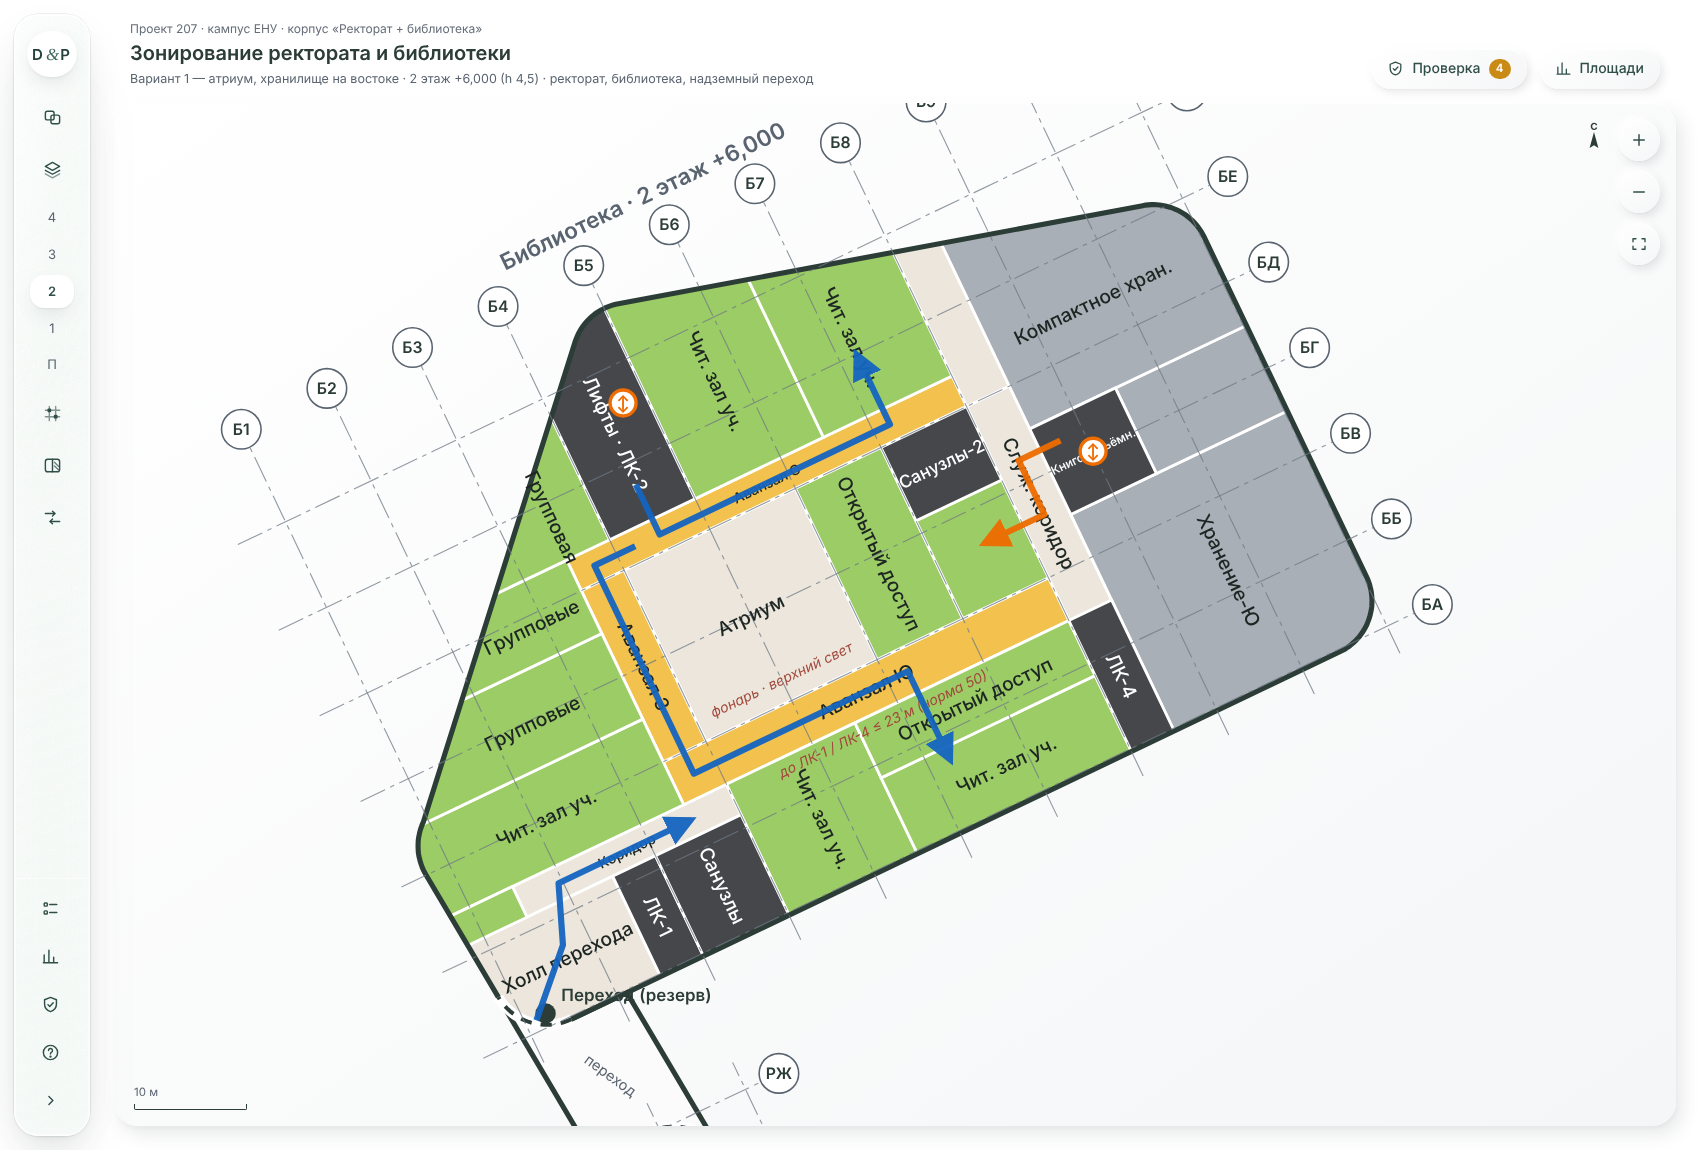
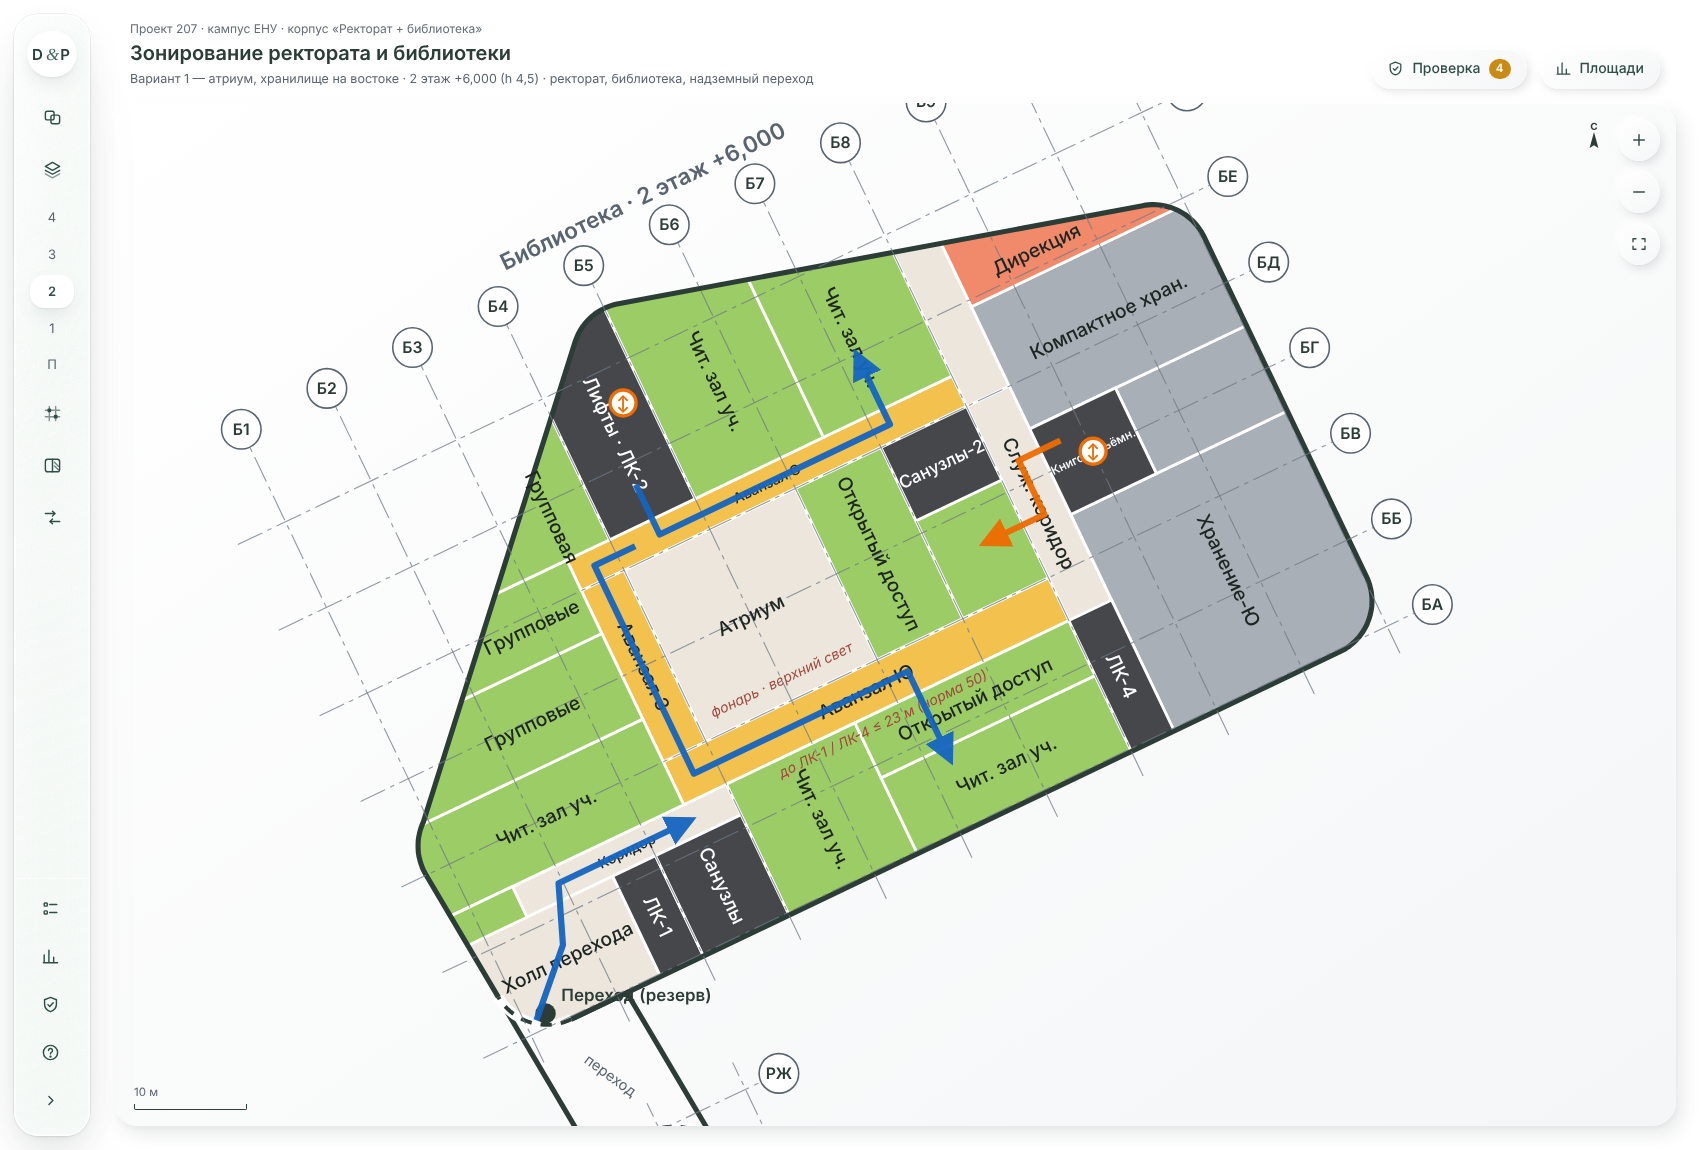
Библиотека: лишняя площадь компактного хранения (2 эт.) отдана дирекции и бухгалтерии
Claude-Session: https://claude.ai/code/session_01PBUMDRyqQNphWJTD6zJTqL

Changed region(s): [[0.5612, 0.1826, 0.6859, 0.3043]]

diff --git a/ADM_LIB_Zoning.html b/ADM_LIB_Zoning.html
@@ -531,8 +531,10 @@ for(const f of ["2","3"]){
 L("2",63,86,-1,21,"z7","storeS","Хранение-Ю","Основное книгохранилище, южный отсек",
   "Без окон — фонд без солнца; доступ только из служебного коридора; отсек ≈ 495 м² ≤ 600 м² (п. 4.2.1.69); выходы — служебный коридор и ЛК-4 (п. 5.3.1.29).",{p:"store",nl:true});
 L("2",71.4,86,21,29.4,"z7","storeC","","Компактное хранение (передвижные стеллажи), часть 2","Часть отсека компактного хранения.",{p:"store",nl:true});
-L("2",63,86,29.4,56,"z7","storeC","Компактное хран.","Компактное хранение (передвижные стеллажи), часть 2",
-  "Вторая часть компактного хранения (решение архитектора — на двух этажах); отсек ≈ 430 м² ≤ 600 м²; без окон.",{p:"store",nl:true});
+L("2",63,86,29.4,41.4,"z7","storeC","Компактное хран.","Компактное хранение (передвижные стеллажи), часть 2",
+  "Вторая часть компактного хранения (решение архитектора — на двух этажах); сокращено до нормы табл. 26 (450 м² полезной), северная часть отдана дирекции; без окон.",{p:"store",nl:true});
+L("2",63,86,41.4,56,"z5","admin","Дирекция","Дирекция и бухгалтерия библиотеки",
+  "На лишней площади компактного хранения (решение архитектора): администрация — производственная зона (п. 3.109), не выше 3 этажа; окна на С и ВСВ; вход из служебного коридора, без читательских зон.",{p:"serv"});
 for(const f of ["3"]){
   L(f,63,86,-1,21,"z7","storeS","Хранение-Ю","Основное книгохранилище, южный отсек","Без окон; доступ только из служебного коридора; отсек ≈ 495 м² ≤ 600 м²; выходы — служебный коридор и ЛК-4.",{p:"store",nl:true});
   L(f,71.4,86,21,29.4,"z7","storeN","","Основное книгохранилище, северный отсек","Часть северного отсека.",{p:"store",nl:true});

diff --git a/LIB_Zoning_REPORT.md b/LIB_Zoning_REPORT.md
@@ -16,7 +16,7 @@
   - **Половина — хранение**, 1 668 м²: три отсека основного хранения ≤ 600 м² и хранилище редких изданий за противопожарными стенами (п. 5.3.1.30). П. 3.110 прямо рекомендует подземные этажи для основного хранилища.
 - **Хранение на этажах пересчитано под норму:**
   - основное — подвал, 2 этаж (южный отсек), 3 этаж (оба отсека);
-  - компактное — 1 этаж и 2 этаж (северный отсек), передвижные стеллажи на нижних этажах;
+  - компактное — 1 этаж и 2 этаж (северный отсек), передвижные стеллажи на нижних этажах; лишняя площадь срезана до нормы (453 м² полезной при 450), на её месте — **дирекция и бухгалтерия** (≈ 70 м², 2 этаж, окна на С, вход из служебного коридора);
   - **на 4 этаже хранилища нет** — там научные залы.
 - **Атриум** 16,8 × 16,8 м с фонарём, **без лестницы и общедоступный**. На 1 этаже из него вход в абонемент.
 - **Контроль** — перед лифтами и каталогами, ось Б4–Б5 / БД. За ним лифты к залам, каталоги, СБО, МБА. Со стороны атриума зона за контролем отделена стеклом.
@@ -121,8 +121,8 @@
 | Аудиовизуальные залы, зал редких книг | — | — | — | — | 464 | 464 |
 | Фонд открытого доступа | — | — | 335 | 222 | 222 | 779 |
 | Основное хранение (вкл. редкие издания) | 1 668 | — | 446 | 878 | — | 2 992 |
-| Компактное хранение | — | 153 | 432 | — | — | 585 |
-| Служебные и лаборатории (МБА, копирование, реставрация, служебный вход, обработка 78, служебный каталог 112, приёмка, кладовые, портфели) | — | 934 | — | — | — | 934 |
+| Компактное хранение | — | 153 | 362 | — | — | 515 |
+| Служебные и лаборатории (МБА, копирование, реставрация, служебный вход, обработка, служебный каталог, приёмка, кладовые, портфели; на 2 этаже — дирекция) | — | 934 | 70 | — | — | 1 004 |
 | Техника | 1 476 | — | — | — | — | 1 476 |
 | Атриум | — | 282 | 282 | 282 | 282 | 1 129 |
 | Коридоры, холлы, служебный коридор | 391 | 333 | 344 | 212 | 63 | 1 344 |
@@ -142,13 +142,13 @@
 | Читальные залы научного отд. | 2 528 | 2 225 | 2 700 | −475 |
 | Аудиовизуальные, редкие книги | 464 | 409 | 900 | −491 |
 | **Основное хранение + сотрудники** | 2 992 | 2 633 | 2 752 | **−119** ² |
-| **Компактное хранение** | 585 | 515 | 450 | **+65** ² |
+| **Компактное хранение** | 515 | 453 | 450 | **+3** ² |
 | Открытый доступ | 779 | 686 | 1 800 | −1 114 |
-| Обработка и служебные | 934 | 822 | 1 259 | −437 |
+| Обработка и служебные (вкл. дирекцию 70) | 1 004 | 884 | 1 259 | −375 |
 | **Итого табл. 26** | **12 475** | **≈ 10 980** | **14 012** | **≈ −3 030** |
 
 ¹ Аванзалы — это ещё и галереи вокруг атриума и пути эвакуации.
-² Закрытое хранение вместе: 3 148 м² полезной площади при норме 3 202 — совпадает с нормой с точностью ≈ 2 %.
+² Закрытое хранение вместе: 3 086 м² полезной площади при норме 3 202 — меньше нормы на ≈ 4 %.
 
 **Места в залах:** учебных ≈ 525, научных ≈ 740, групповых ≈ 230, аудиовизуальных и редких ≈ 80 — всего ≈ 1 580.
 
@@ -167,6 +167,7 @@
 - **4 этаж при блокировке ЛК-2** — см. раздел 3.2.
 - **Отметка и высота подвала** (−4,500, h 4,5) — допущение. Нужен гидроизоляционный контур хранилища и перепроверка нагрузки от стеллажей.
 - **Лифтовой узел (правило 3).** У фасада стоит ЛК-2, шахты — за ней.
-- **Дирекция библиотеки** — в табл. 26 её нет. Нужен состав от технолога.
+- **Дирекция** размещена на 2 этаже (≈ 70 м²) за счёт лишней площади компактного хранения. Нужен штат от технолога.
+- **Обработка и служебный каталог** стоят в скруглённом ЮВ углу: фактически 67 и 100 м², а нужно 78 и 112,5 м² (табл. 26). Нужно перекроить угол.
 - **Буфет и курительные** (п. 3.108) не размещены: правило 5 задания запрещает добавлять что-то сверх программы.
 - **Переход и ректорат** — следующим этапом.
